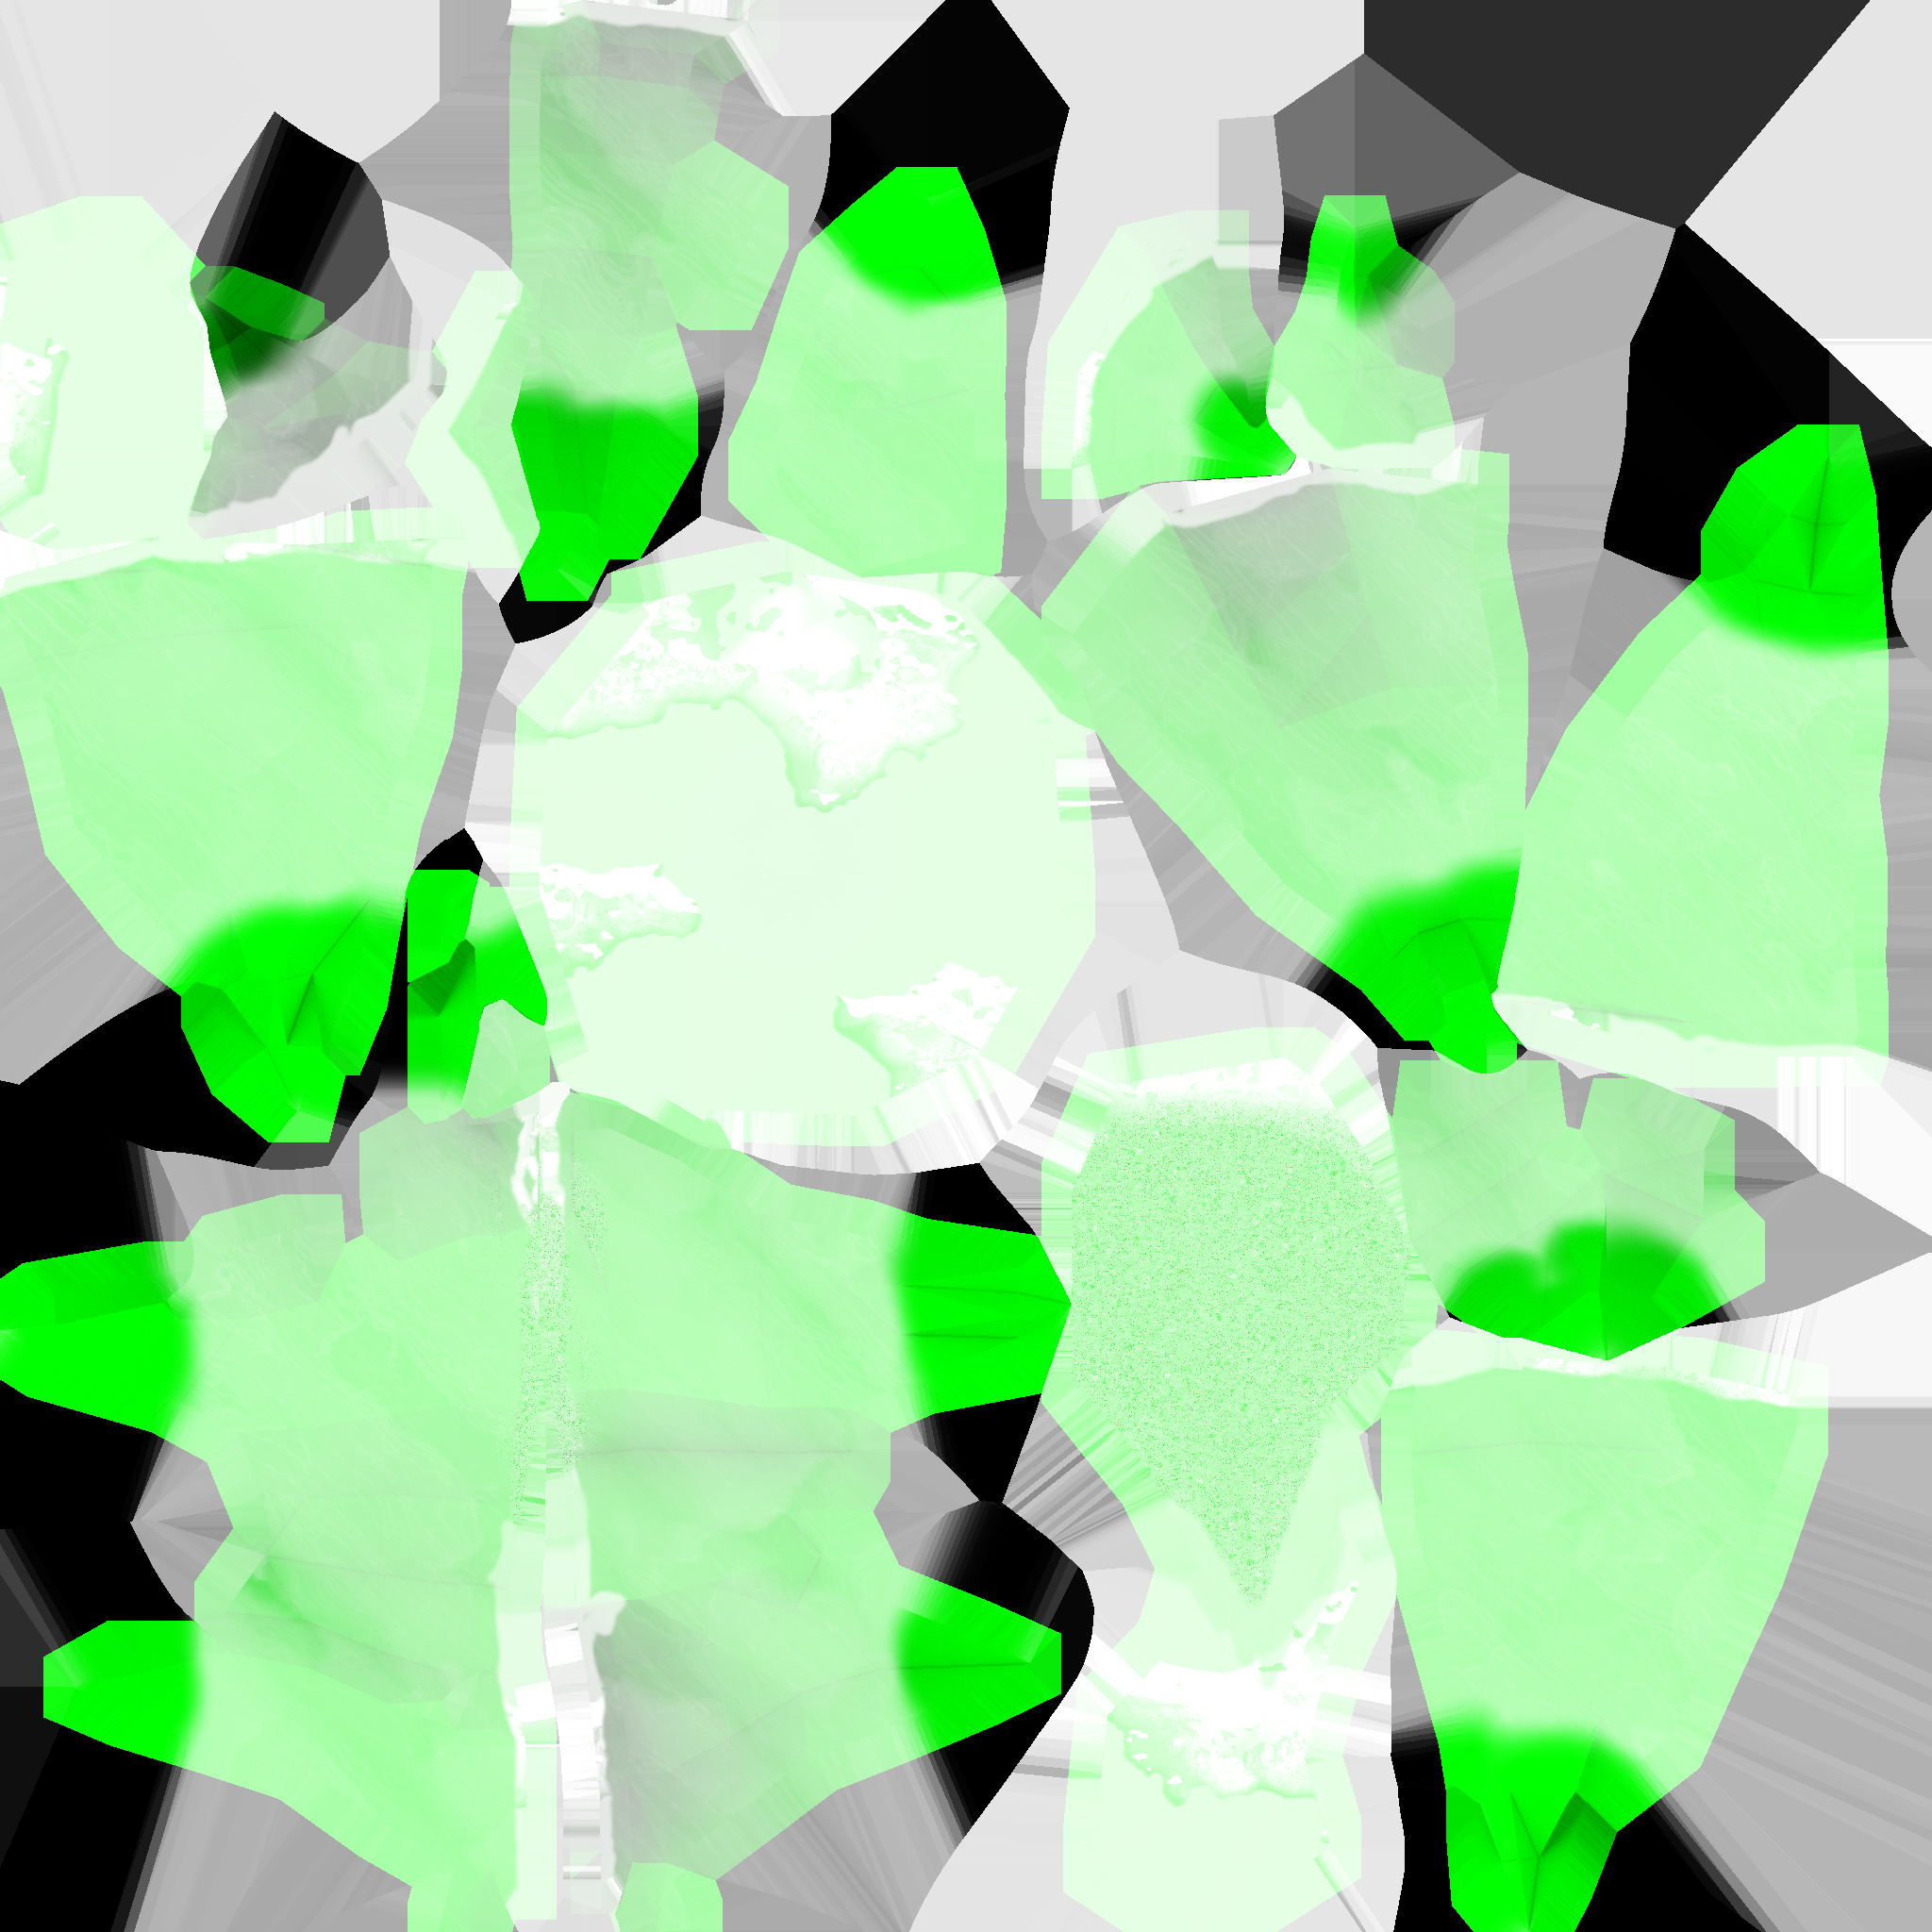
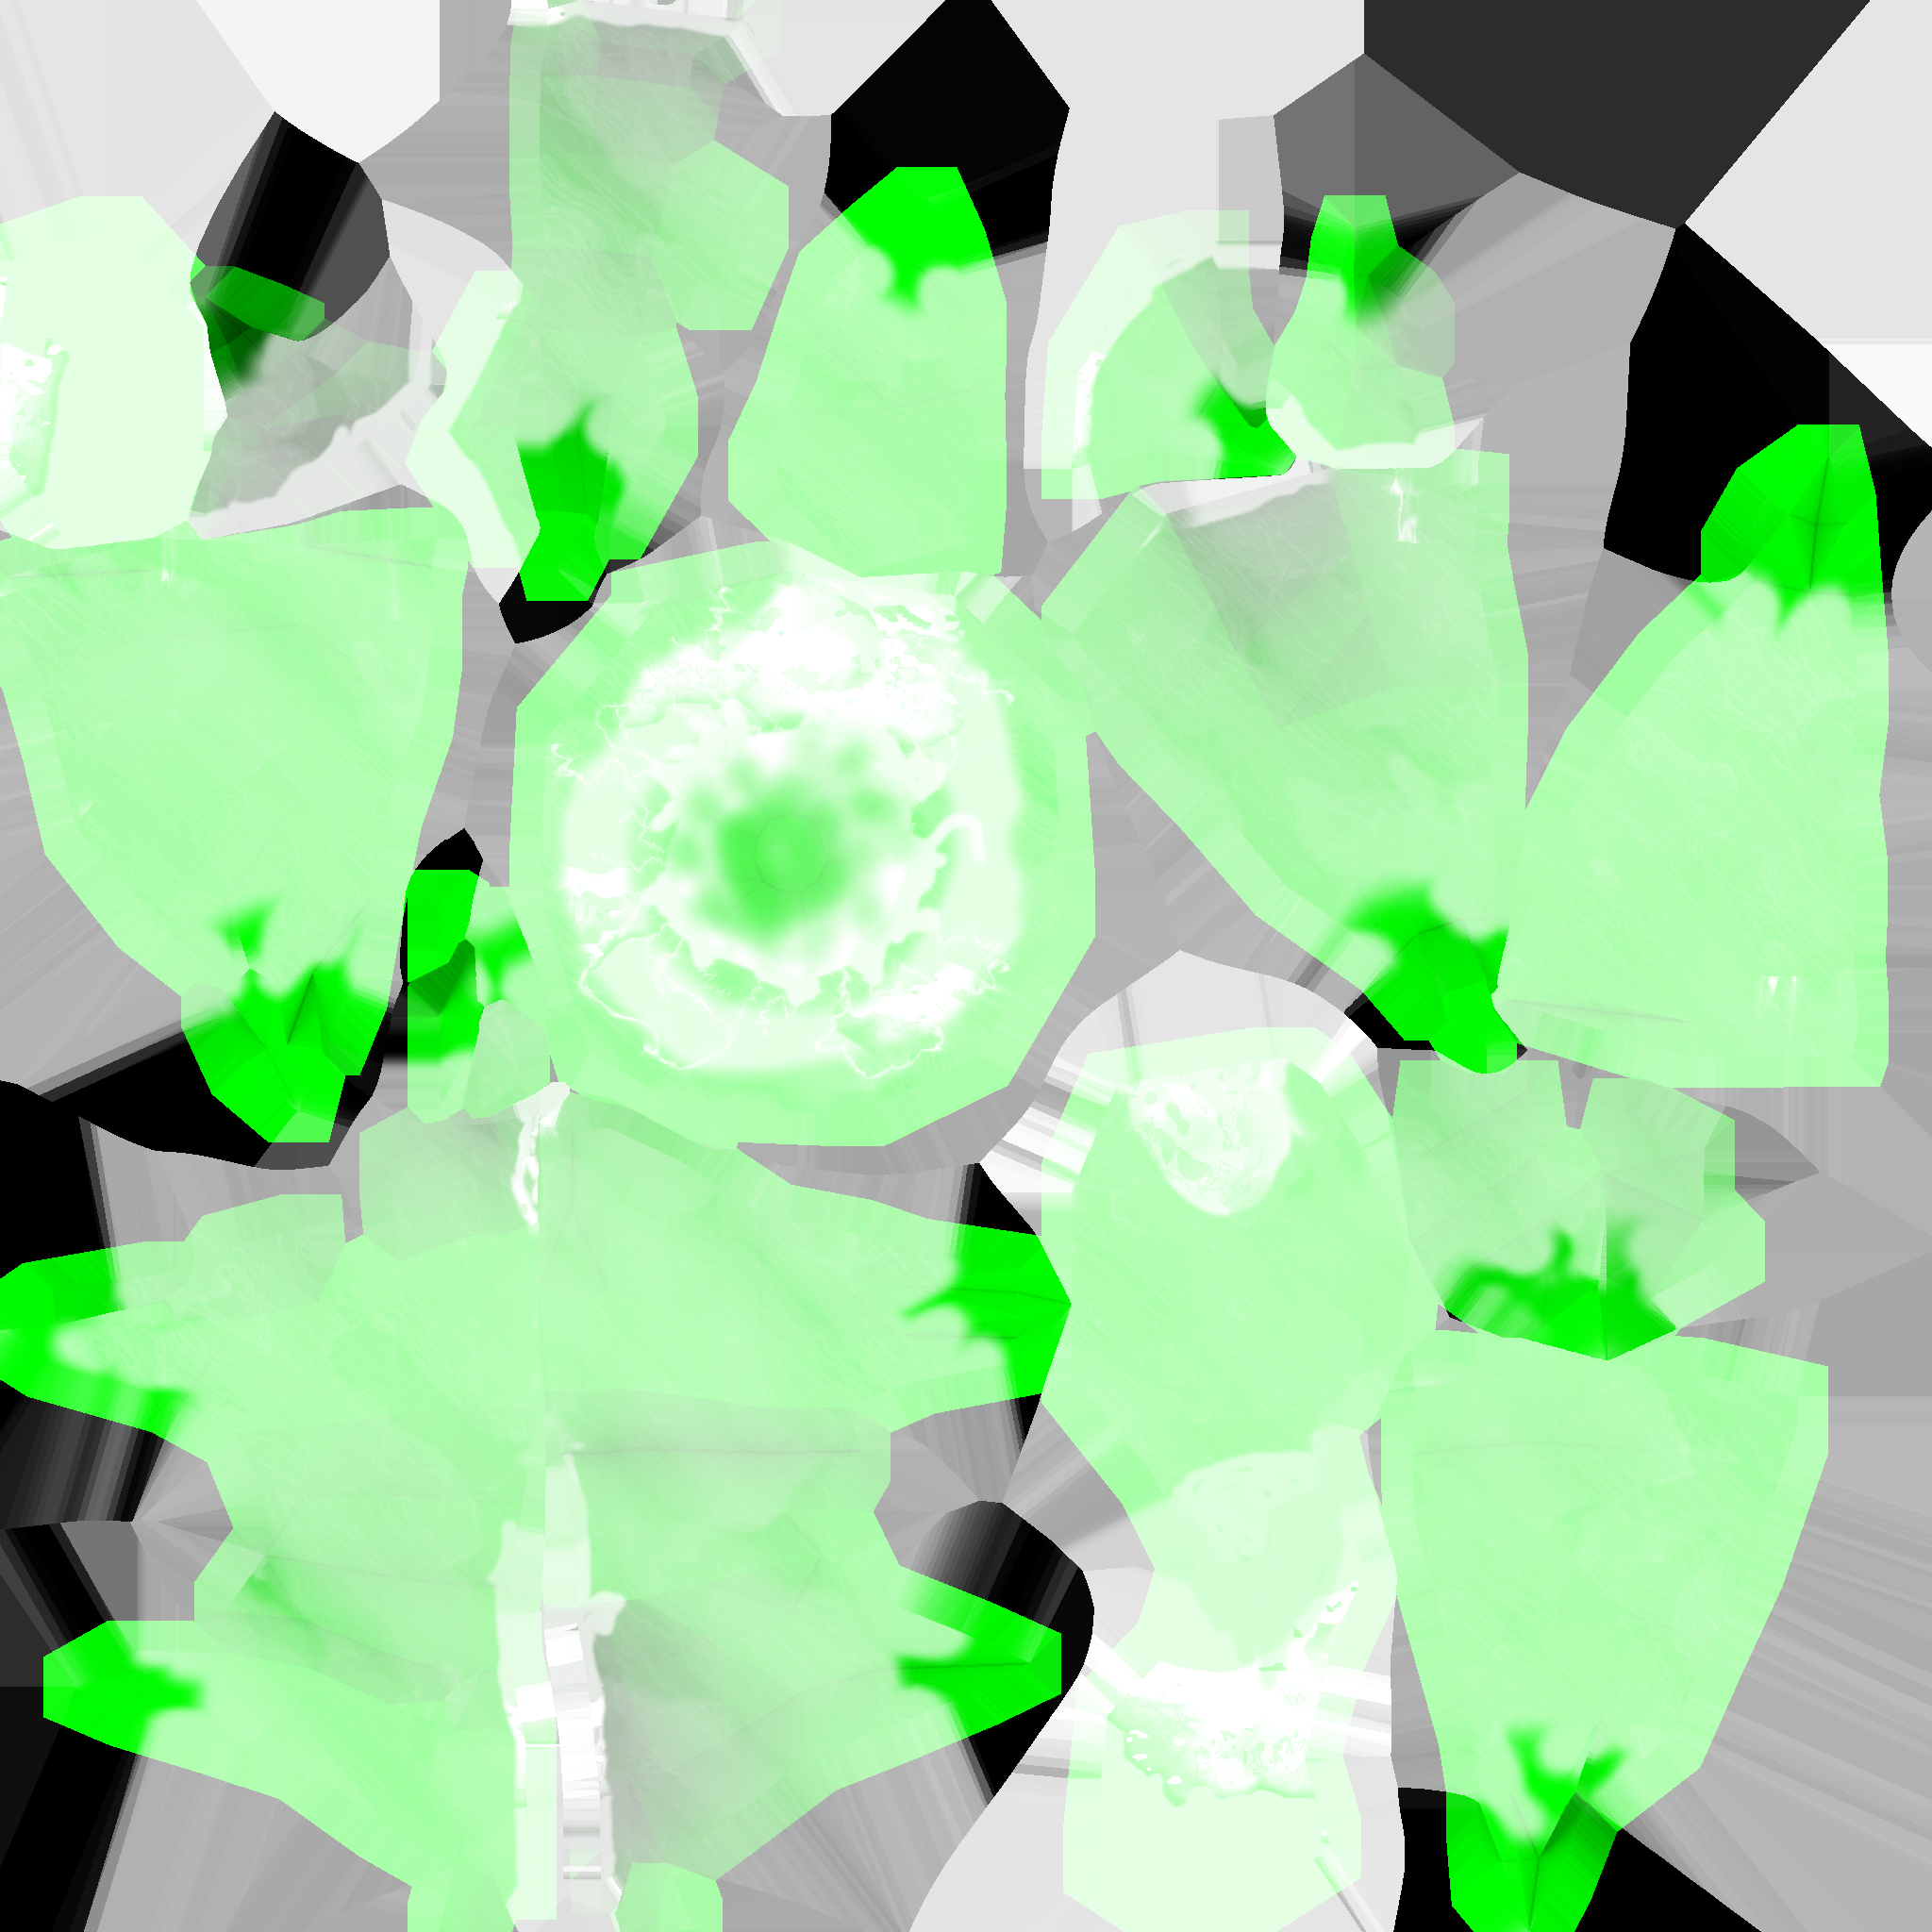
ah

diff --git a/Assets/Scripts/Fauna/Pajaro.cs b/Assets/Scripts/Fauna/Pajaro.cs
@@ -70,7 +70,7 @@ public class Pajaro : MonoBehaviour
 
     private void SlowUpdate()
     {
-        if (Random.Range(0f, 100f) > 10f) //Fly
+        if (Random.Range(0f, 100f) > 20f) //Fly
         {
             estado = "fly";
             rigidBody.useGravity = false;
@@ -90,7 +90,7 @@ public class Pajaro : MonoBehaviour
 
             audioSource.Stop();
         }
-        else if (Random.Range(0f, 100f) > 60f) //Walk
+        else if (Random.Range(0f, 100f) > 100f) //Walk
         {
             estado = "walk";
             rigidBody.useGravity = true;